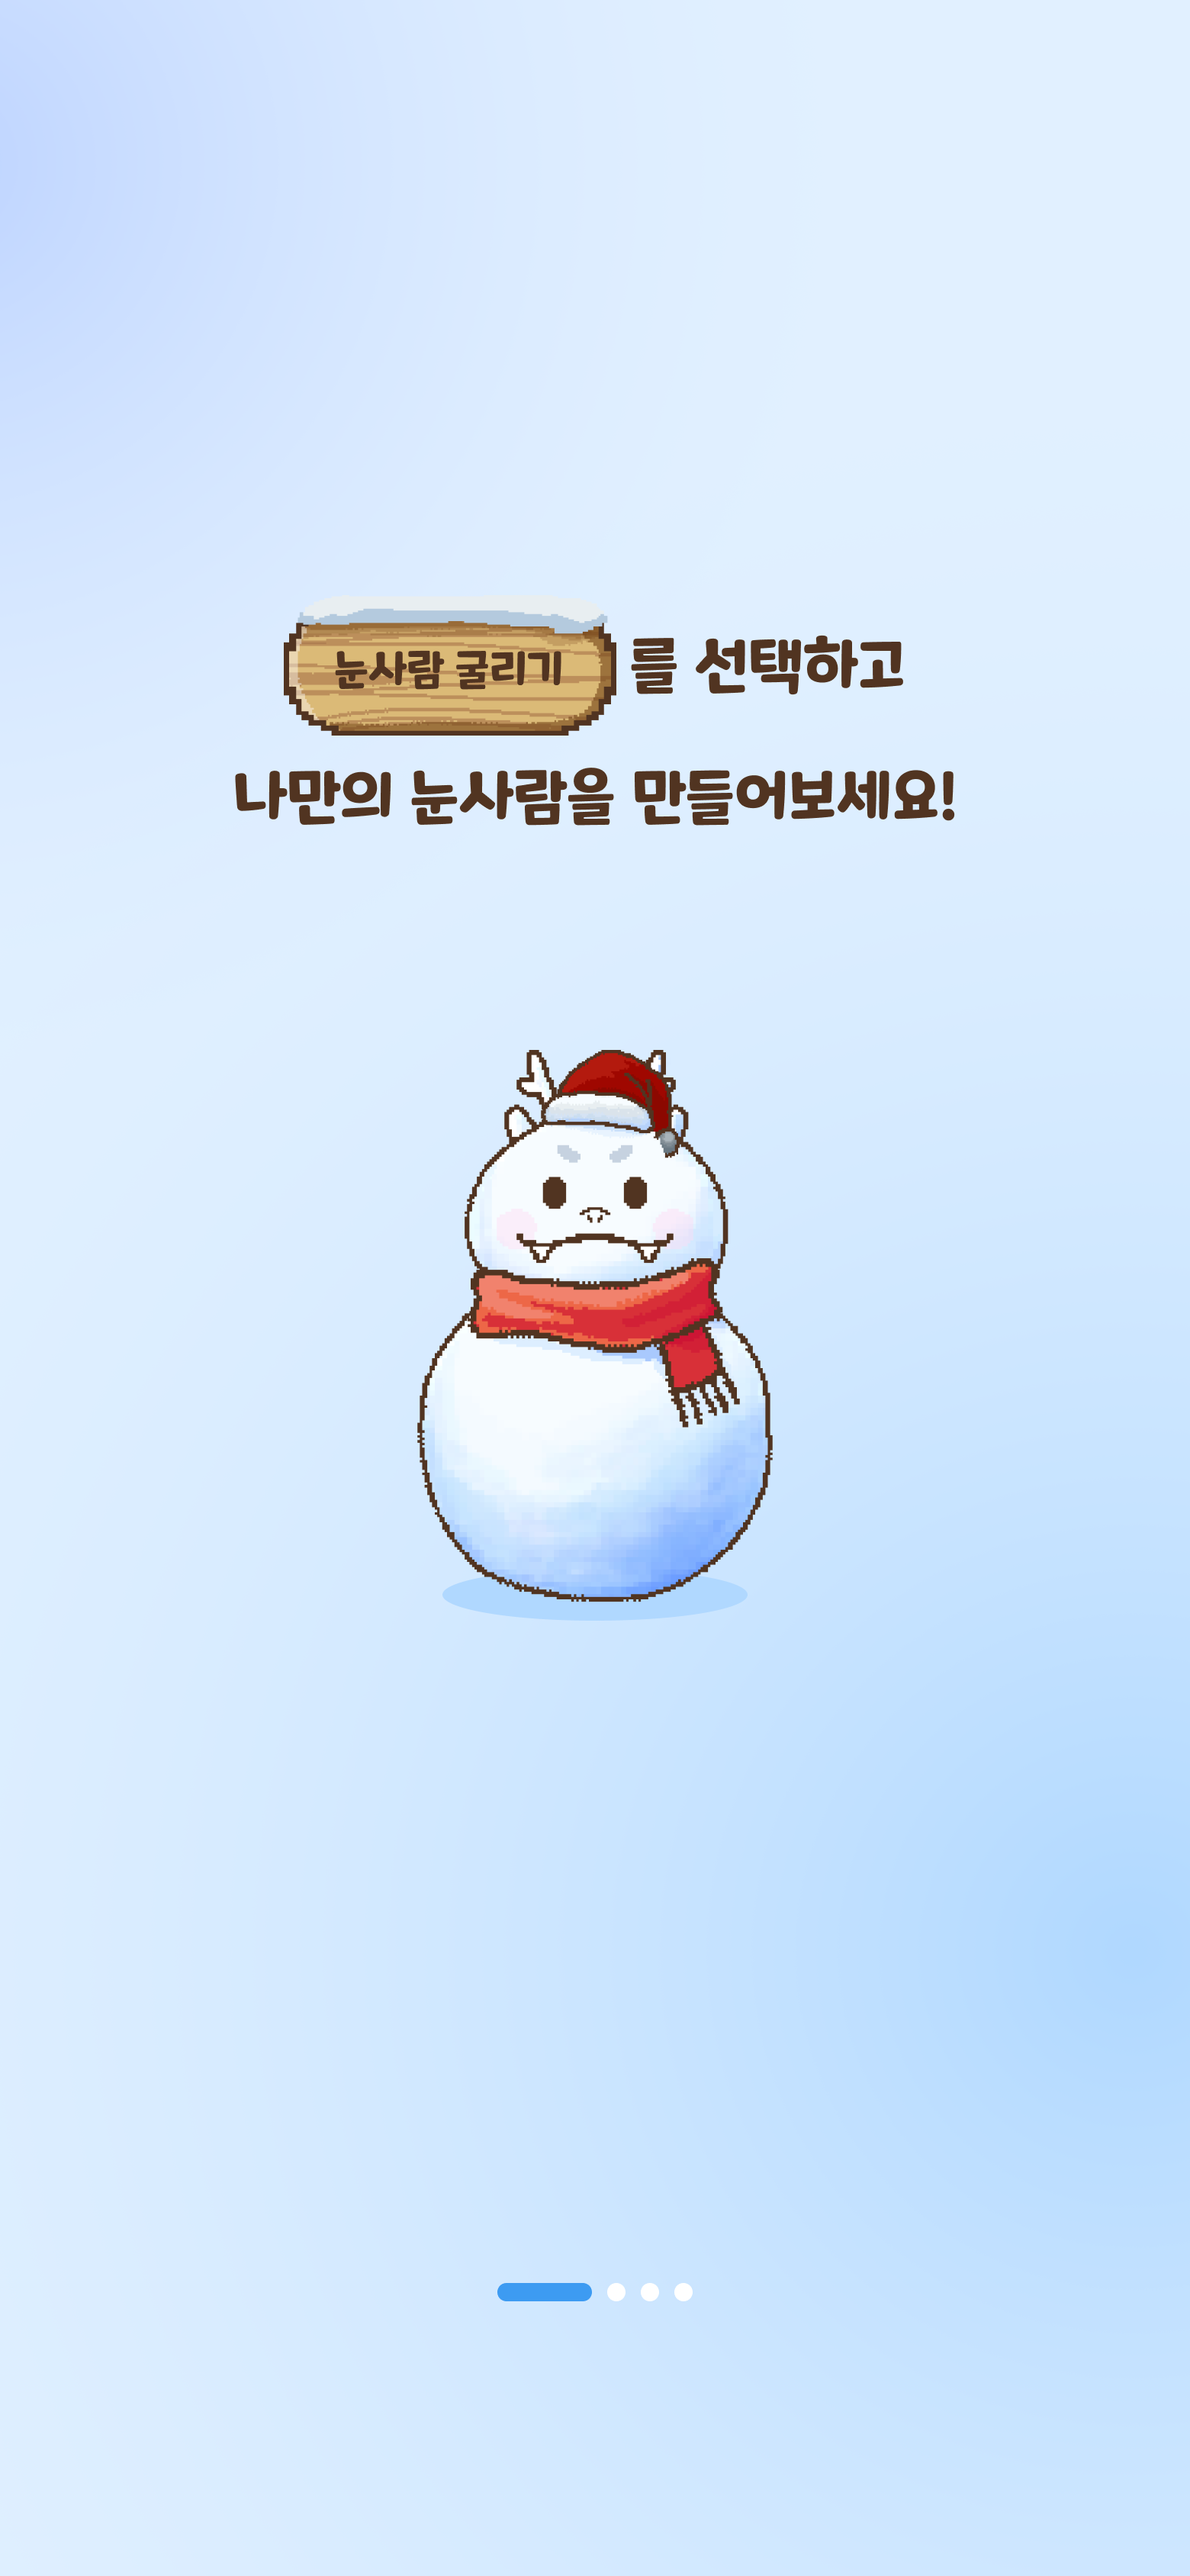
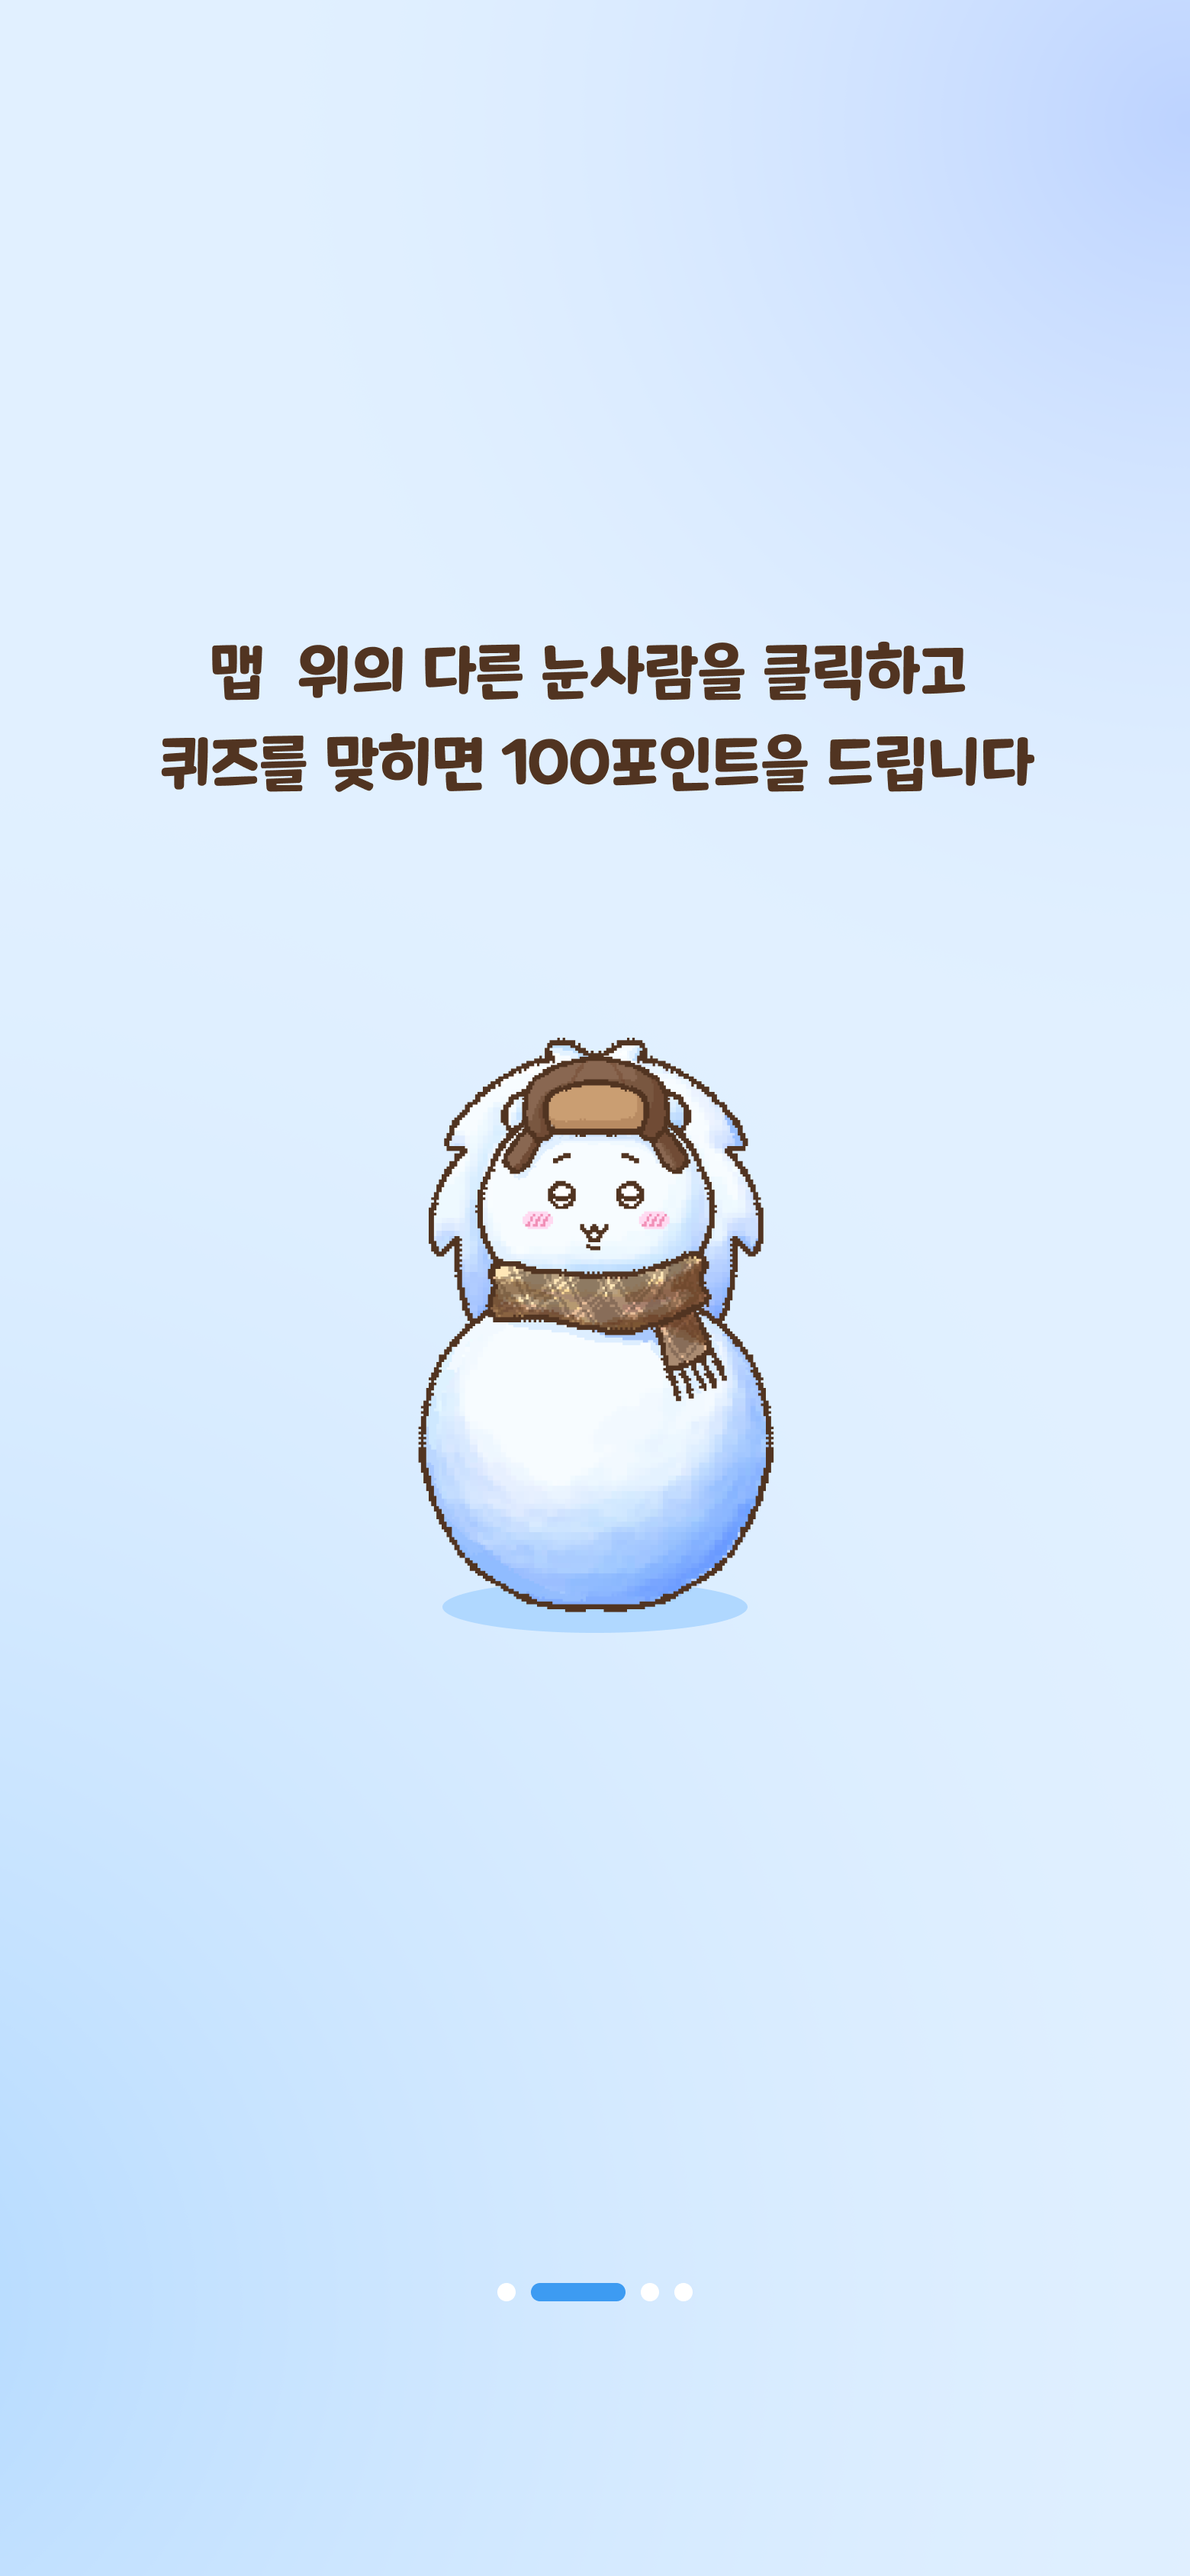
ADD : onboarding

diff --git a/src/pages/OnboardingPage.tsx b/src/pages/OnboardingPage.tsx
@@ -1,0 +1,94 @@
+import styled from "styled-components";
+import OnboardingWrapper from "../components/HomePage/OnboardingWrapper";
+import { useNavigate, useParams } from "react-router-dom";
+
+const OnboardingPage = () => {
+  const { id } = useParams();
+  const navigate = useNavigate();
+
+  const handleBackClick = () => {
+    const numericId = Number(id);
+    if (numericId > 1) {
+      navigate(`/onboarding/${numericId - 1}`);
+    }
+  };
+
+  const handleNextClick = () => {
+    const numericId = Number(id);
+    if (numericId < 5) {
+      navigate(`/onboarding/${numericId + 1}`);
+    }
+  };
+
+  return (
+    <OnboardingWrapper>
+      <ButtonContainer>
+        {(id === "1") && (
+          <NoButton />
+        )}
+        {(id === "2" || id === "3" || id === "4") && (
+          <BackBtn src="/images/etc/leftBtn.png" onClick={handleBackClick}/>
+        )}
+        {(id === "1" || id === "2" || id === "3" || id === "4") && (
+          <NextBtn src="/images/etc/rightBtn.png" onClick={handleNextClick} />
+        )}
+        {(id === "5") && (
+            <Button onClick={() => (navigate("/1"))}>눈사람 굴리러 가기</Button>
+
+        )}
+      </ButtonContainer>
+    </OnboardingWrapper>
+  );
+};
+
+export default OnboardingPage;
+
+const ButtonContainer = styled.div`
+  display: flex;
+  width: 100%;
+  flex-direction: row;
+  justify-content: space-between;
+  padding : 0 3rem;
+  margin-top : 50rem;
+`;
+
+const BackBtn = styled.img`
+  margin-left: 1rem;
+  height: 23%;
+  width: 9%;
+  aspect-ratio: 1/1;
+  cursor: pointer;
+`;
+
+const NoButton = styled.div`
+  margin-left: 1rem;
+  height: 23%;
+  width: 9%;
+  aspect-ratio: 1/1;
+  cursor: pointer;
+`;
+
+const NextBtn = styled.img`
+  margin-left: 1rem;
+  height: 23%;
+  width: 9%;
+  aspect-ratio: 1/1;
+  cursor: pointer;
+`;
+
+const Button = styled.button`
+  display: flex;
+  width: 100%;
+  height: 10%;
+  background-color: #3d9bf2;
+  color: #ffffff;
+  padding: 2.0rem;
+  justify-content: center;
+  align-items: center;
+  font-size: 1.6rem;
+  border-radius: 100px;
+  border-radius: 40px;
+  border: 1px solid #513421;
+  background: #3D9BF2;
+  box-shadow: 1px 2px 0px 0px #7EBFFF;
+`;

diff --git a/src/components/HomePage/OnboardingWrapper.tsx b/src/components/HomePage/OnboardingWrapper.tsx
@@ -1,0 +1,41 @@
+import React from 'react';
+import styled from 'styled-components';
+import { useParams } from 'react-router-dom';
+
+interface WrapperProps {
+    id: string;
+    backgroundImages: Record<string, string>;
+}
+
+const OnboardingWrapper: React.FC<{ children?: React.ReactNode }> = ({ children }) => {
+    const { id } = useParams<{ id: string }>();
+
+    const backgroundImages: Record<string, string> = {
+        "1": "/images/onboarding/1.png",
+        "2": "/images/onboarding/2.png",
+        "3": "/images/onboarding/3.png",
+        "4": "/images/onboarding/4.png",
+        "5": "/images/onboarding/5.png",
+    };
+
+    return (
+        id ? (
+            <Wrapper id={id} backgroundImages={backgroundImages}>
+                {children}
+            </Wrapper>
+        ) : null
+    );
+};
+
+export default OnboardingWrapper;
+
+const Wrapper = styled.div<WrapperProps>`
+  height: 100%;
+  width : 100%;
+  display: flex;
+  flex-direction: row;
+  justify-content: space-between;
+  background: url(${({ id, backgroundImages }) => backgroundImages[id]}) no-repeat center center;
+  background-size: cover;
+  font-family: 'MaplestoryOTFBold';
+`;

diff --git a/src/App.tsx b/src/App.tsx
@@ -12,6 +12,7 @@ import MakingPage from './pages/makingPage';
 import QuizTestPage from './pages/QuizTestPage';
 import { RecoilRoot } from 'recoil';
 import SelectingMapPage2 from './pages/SelectingMapPage-locating';
+import OnboardingPage from './pages/OnboardingPage';
 
 class App extends Component {
   
@@ -68,6 +69,7 @@ class App extends Component {
           <Route path='/elevator' element={<SelectingMapPage/>}/>
           <Route path='/elevator2' element={<SelectingMapPage2/>}/>
           <Route path="/quiz" element={<QuizTestPage/>}/>
+          <Route path="/onboarding/:id" element={<OnboardingPage/>}/>
           </Routes>
         </div>
       </RecoilRoot>
